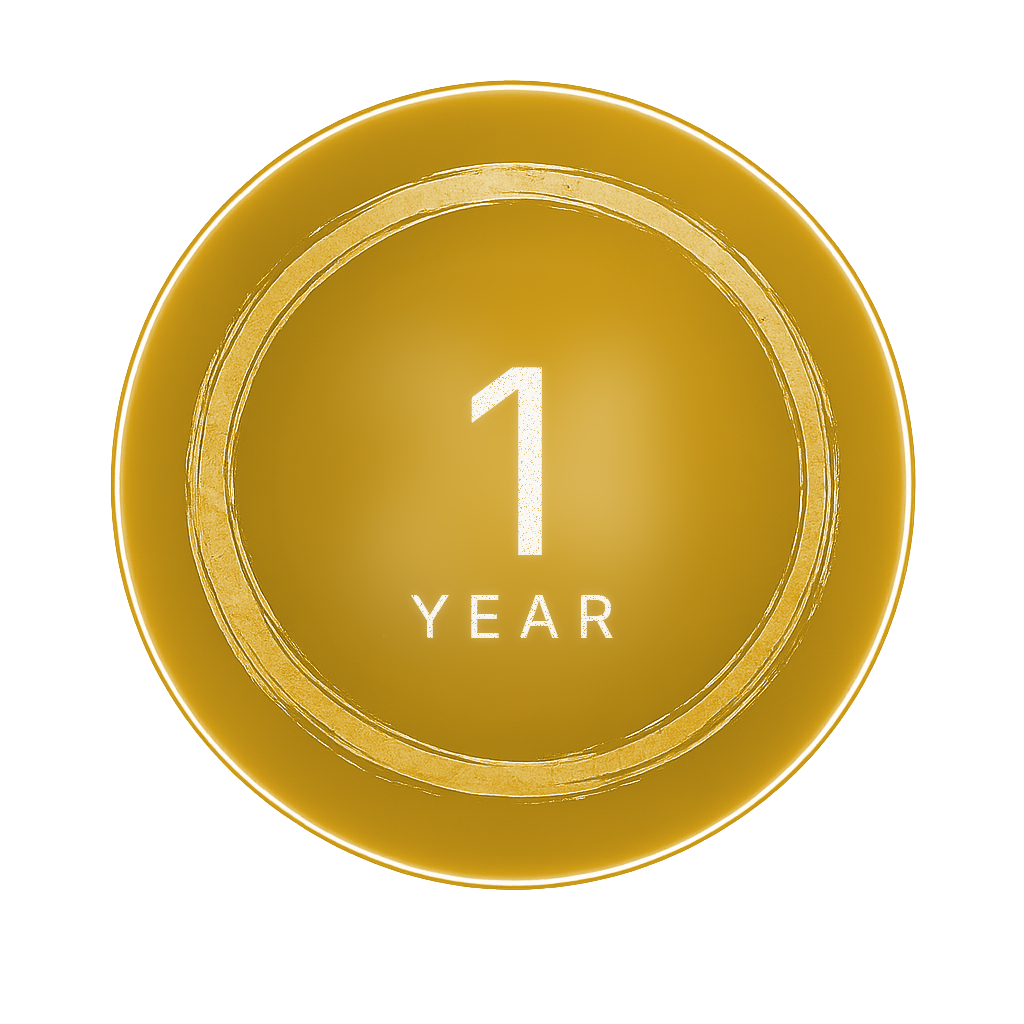
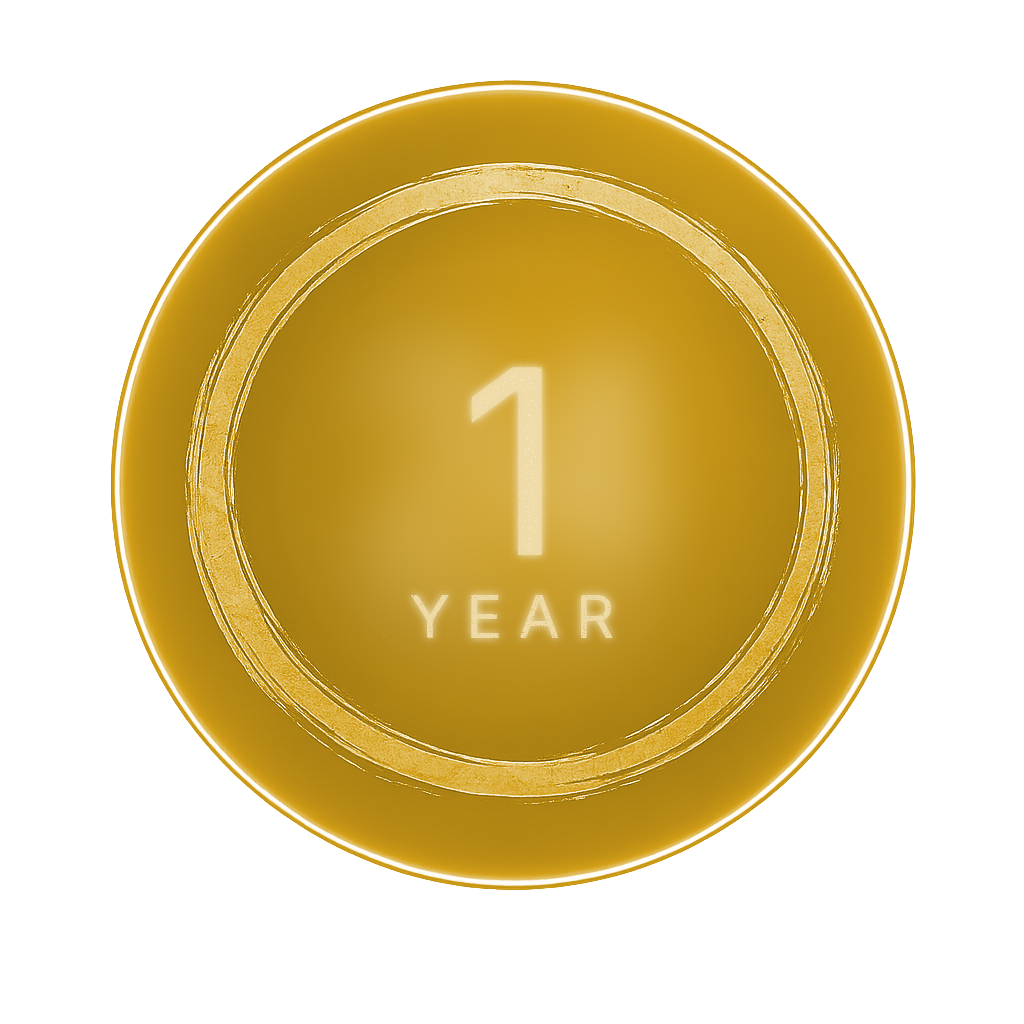
Render badge text in the ring-highlight color, not solid white
Numerals and label now render in the assigned hex lifted ~62% toward
white, so they share a hue with the brushed-ring highlights instead of
breaking the chrome look with hard white. Glow underneath shifts to the
same family for cohesion.

https://claude.ai/code/session_01TqmVcPLJNZuf7Q6XCPWgNk

Changed region(s): [[0.4062, 0.3438, 0.5938, 0.625]]

diff --git a/scripts/generate-badges.ts b/scripts/generate-badges.ts
@@ -182,10 +182,20 @@ function distressLayer(canvas: any, bbox: { x: number; y: number; w: number; h: 
   ctx.putImageData(img, bbox.x, bbox.y)
 }
 
+// Lighten a hex toward white by `amount` (0..1). Used to render the text
+// in the same hue family as the chrome-ring highlights — ties the numerals
+// and label visually to the ring brushwork instead of solid white.
+function lighten(hex: string, amount: number): string {
+  const [r, g, b] = hexToRgb(hex)
+  return `rgb(${Math.round(r + (255 - r) * amount)}, ${Math.round(g + (255 - g) * amount)}, ${Math.round(b + (255 - b) * amount)})`
+}
+
 function drawText(ctx: SKRSContext2D, d: Duration) {
   const layer = createCanvas(SIZE, SIZE)
   const lctx = layer.getContext('2d')
-  lctx.fillStyle = 'rgba(252, 253, 255, 0.95)'
+  // Text color matches the brushed-ring highlight family: same hue as the
+  // tint, lifted ~62% toward white for clean readability against the disc.
+  lctx.fillStyle = lighten(d.color, 0.62)
 
   const bigSize = d.big.length === 1 ? BIG_SIZE_SINGLE : BIG_SIZE_DOUBLE
   drawCenteredText(lctx, d.big, CX, NUMERAL_BASELINE, bigSize, 200)
@@ -199,8 +209,8 @@ function drawText(ctx: SKRSContext2D, d: Duration) {
   })
 
   ctx.save()
-  ctx.shadowColor = 'rgba(255, 255, 255, 0.55)'
-  ctx.shadowBlur = 10
+  ctx.shadowColor = lighten(d.color, 0.85)
+  ctx.shadowBlur = 8
   ctx.drawImage(layer, 0, 0)
   ctx.restore()
 }
